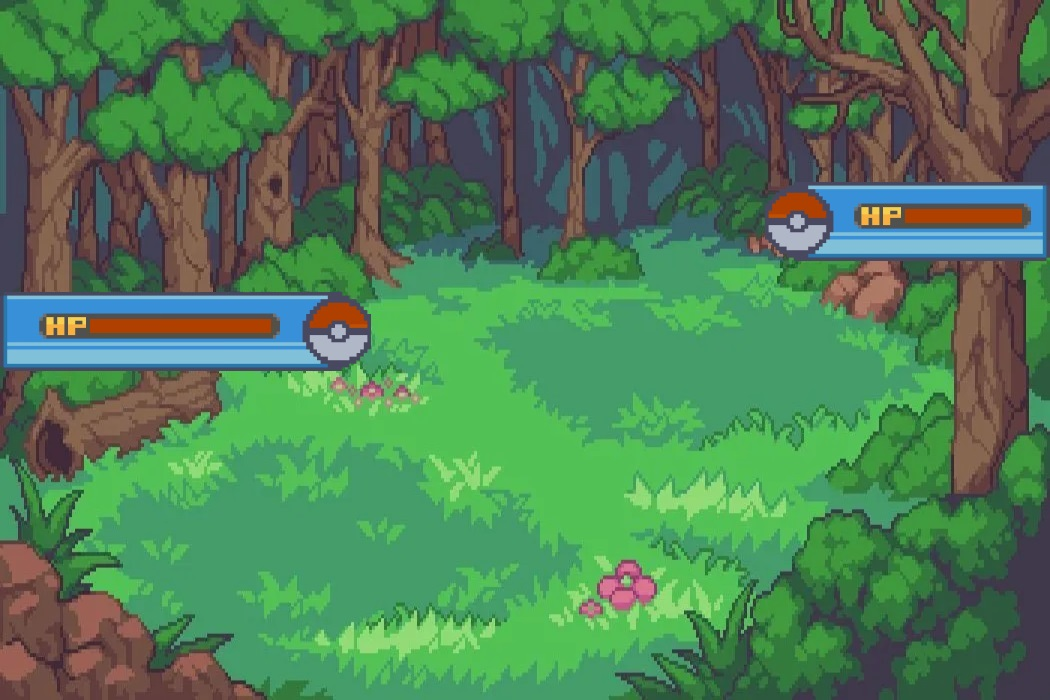
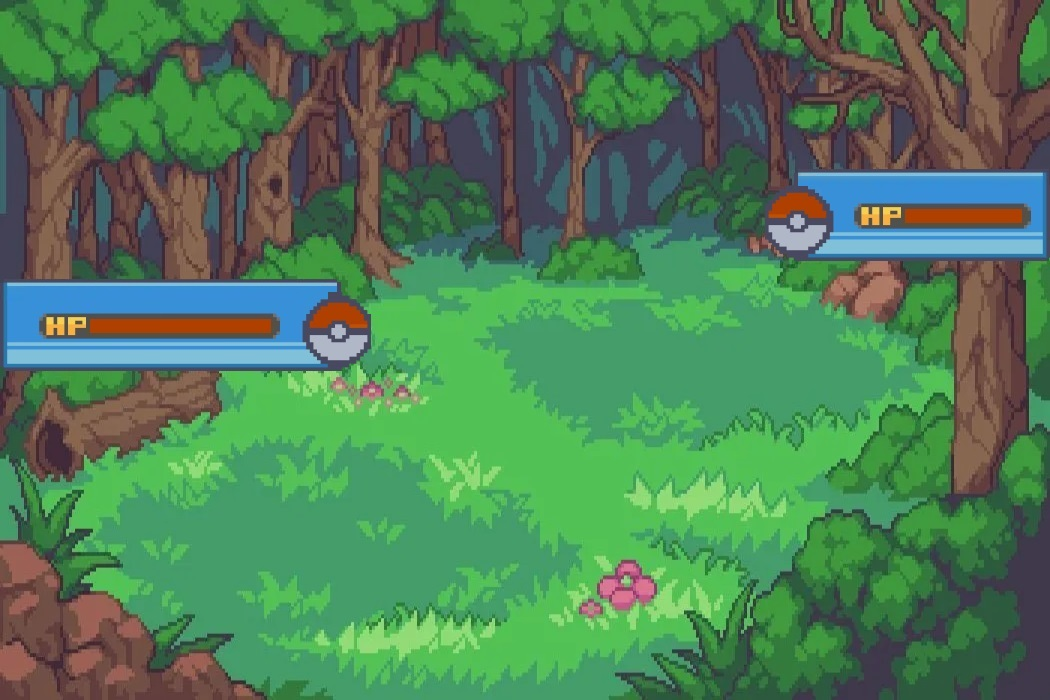
game logic done

Changed region(s): [[0.0, 0.39, 0.3352, 0.45], [0.7619, 0.24, 1.0, 0.27]]

diff --git a/animation.py b/animation.py
@@ -27,6 +27,8 @@ pk = df.Path[r]
 player_pk = df.Name[r]
 ptype = typelist[r]
 p_stats = pokedex.pokedata.iloc[r]
+if p_stats['HP']<=70:
+    p_stats['HP']+=30
 
 #Selecting a random Opponent Pokemon
 r2 = random.randint(1,151)
@@ -34,7 +36,8 @@ oppath=str(r2)+'.png'
 opponent_pk = df.Name[r2-1]
 optype = typelist[r2-1]
 op_stats = pokedex.pokedata.iloc[r2-1]
-
+if op_stats['HP']<=70:
+    op_stats['HP']+=30
 #Logic
 if ptype.name in optype.strength:
     op_stats['Attack']*=2
@@ -104,7 +107,7 @@ cimageY=220
 op = False
 pname = 'Red'
 opname = 'Blue'
-font = pygame.font.Font(os.path.join('assets','pokemon_fire_red.ttf'), 28)
+font = pygame.font.Font(os.path.join('assets','pokemon_fire_red.ttf'), 32)
 running = True
 hasatt=1
 hasstag=1
@@ -204,10 +207,10 @@ while (running):
     gui = pygame.transform.scale(gui,(1050, 187))
     speaker = pygame.image.load(os.path.join('assets','audio',sppath+'.png')).convert_alpha()
     speaker = pygame.transform.scale(speaker,(100,100))
-    p_health = font.render(str(int((p_stats['HP']/p_maxhealth)*100))+'%', True, (255,255,255))
-    op_health= font.render(str(int((op_stats['HP']/o_maxhealth)*100))+'%',True,(255,255,255))
     emoji = pygame.image.load(os.path.join('assets','art',r_emoji+'.png')).convert_alpha()
     emoji = pygame.transform.scale(emoji,(100,100))
+    player_pokemon_name = font.render(player_pk.capitalize(), True, (208,255,255))
+    opponent_pokemon_name = font.render(opponent_pk.capitalize(),True,(208,255,255))
     if p_stats['HP']>=1:
         p_hb = (p_stats['HP']/p_maxhealth)*180
     else:
@@ -265,7 +268,7 @@ while (running):
             vs_centre = False
     
     if mainscreen in ['win','lose','tie']:
-        screen.blit(exit_b,[400,600])
+        screen.blit(exit_b,[400,550])
 
     #Player attack event
     if pattack == True:
@@ -290,8 +293,8 @@ while (running):
         screen.blit(pkmg , [pimageX, pimageY])
         screen.blit(player_healthbar, [90,317])
         screen.blit(opponent_healthbar, [905,207])
-        screen.blit(p_health, [150,313])
-        screen.blit(op_health, [940,203])
+        screen.blit(player_pokemon_name,[45,284])
+        screen.blit(opponent_pokemon_name,[859,173])
     #User events
     for event in pygame.event.get():
         if event.type == pygame.QUIT:
@@ -299,7 +302,7 @@ while (running):
 
         if event.type == pygame.MOUSEBUTTONDOWN:
             x, y = event.pos
-            print('x:',x,',y:',y)
+            #print('x:',x,',y:',y)
             #Homepage
             if mainscreen == 'startup':
                 if x in range(405, 645) and y in range(610, 695):
@@ -343,12 +346,16 @@ while (running):
                     player_pk = df.Name[r]
                     ptype = typelist[r]
                     p_stats = pokedex.pokedata.iloc[r]
+                    if p_stats['HP']<=70:
+                        p_stats['HP']+=30
 
                     r2 = random.randint(1,151)
                     oppath=str(r2)+'.png'
                     opponent_pk = df.Name[r2-1]
                     optype = typelist[r2-1]
                     op_stats = pokedex.pokedata.iloc[r2-1]
+                    if op_stats['HP']<=70:
+                        op_stats['HP']+=30
 
                     if ptype.name in optype.strength:
                         op_stats['Attack']*=2
